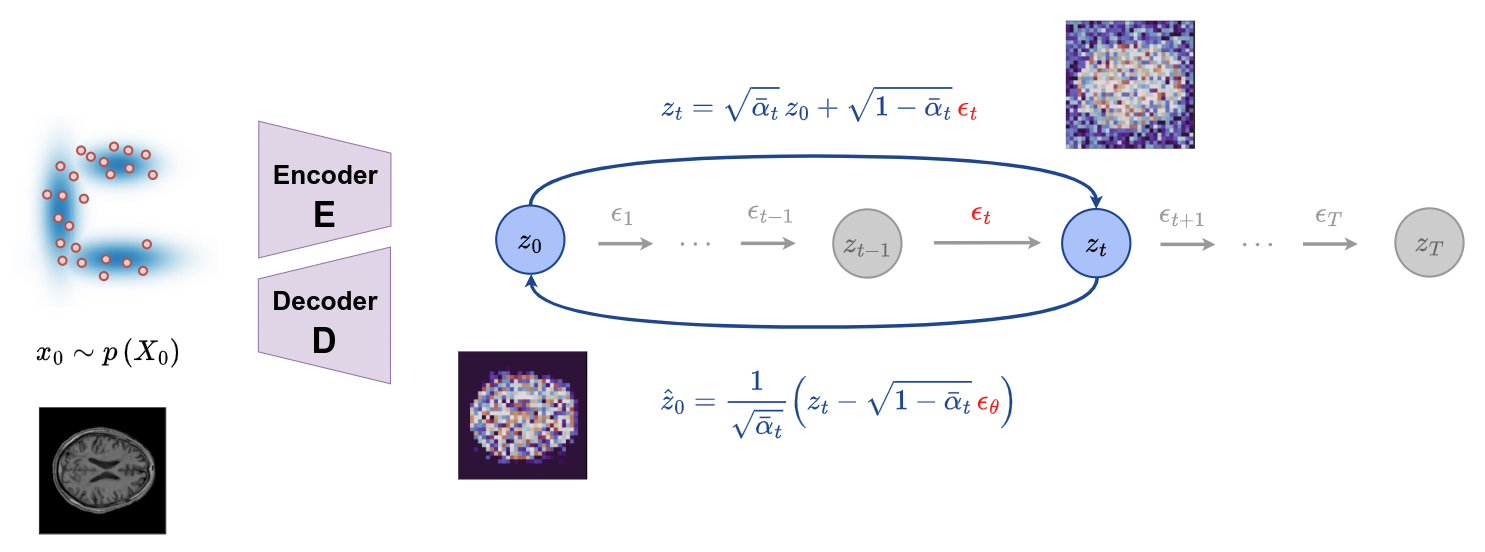
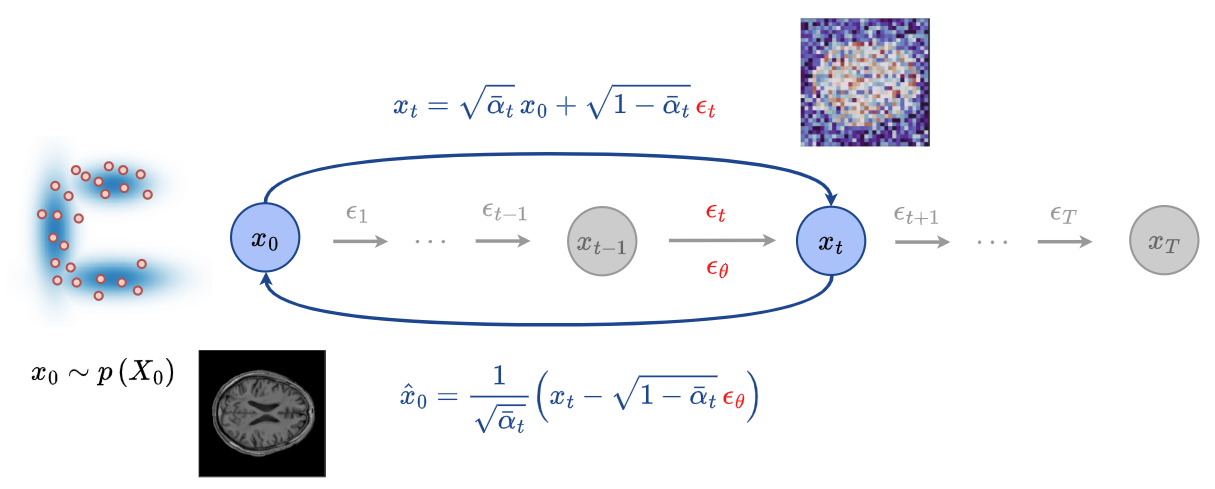
finalize post

diff --git a/collections/_posts/2026-01-16-thor.md b/collections/_posts/2026-01-16-thor.md
@@ -59,15 +59,12 @@ $$\textcolor{red}{\hat{x}_0(x_t,t) = \frac{1}{\sqrt{\bar{\alpha}_t}} \left(x_t -
 ### Modeling the normal feature space
 
 * Excusively healthy subjects are used during training: $$\{x^{(i)}\}_{i=1}^{N}$$ with $$x^{(i)} \in \mathbb{R}^{H \times W \times C}$$ 
-* A pre-trained variational auto-encoder $$V_{E,\phi}$$ is fine-tuned on the dataset and then frozen for the rest of the process
-* Each input image $$x^{(i)}$$ are mapped to its latent space representation $$z^{(i)} = V_{E,\phi}\left(x^{(i)}\right)$$, where $$z^{(i)} \in \mathbb{R}^{H' \times W' \times C'}$$
+* No pre-trained Variational Autoencoder is used; the method operates directly in the image space. The images are resized to dimensions of $$128 \times 128$$
 
-<div style="text-align:center">
-<img src="/collections/images/thor/VAE-procedure.jpg" width=300></div>
 
 ### Diffusion process
 
-* A standard diffusion process is used to learn the reconstruction of images from healthy subjects
+* A standard DDPM is used to learn the reconstruction of images from healthy subjects
 
 
 ## Inference
@@ -78,25 +75,29 @@ $$\textcolor{red}{\hat{x}_0(x_t,t) = \frac{1}{\sqrt{\bar{\alpha}_t}} \left(x_t -
 
 * At each pre-defined specific time-step $$t$$, an estimation of the pseudo-healthy image is computed as:
  
-$$\hat{x}^t_0 = V_{D,\phi}(\hat{z}^t_0) = V_{D,\phi}(\frac{1}{\sqrt{\bar{\alpha}_t}} \left(z_t - \sqrt{1-\bar{\alpha}_t}\, \epsilon_\theta(z_t,t) \right))$$
+$$\hat{x}^t_0 = \frac{1}{\sqrt{\bar{\alpha}_t}} \left(x_t - \sqrt{1-\bar{\alpha}_t}\, \epsilon_\theta(x_t,t) \right)$$
 
-  where $$V_{D,\phi}$$ is the pre-trained VAE decoder
-
-* These maps critically compare the predictive reconstructions $$\hat{x}^t_0$$ with the actual input image $$x^{\text{input}}_0$$, highlighting discrepancies that indicate anomalies and distinguishing regions that are likely healthy
+* These maps compare the predictive reconstructions $$\hat{x}^t_0$$ with the actual input image $$x^{\text{input}}_0$$, highlighting discrepancies that indicate anomalies and distinguishing regions that are likely healthy
 
 ### Anomaly maps
 
-* Anomaly maps m combine residual differences with the Learned Perceptual Image Patch Similarity (LPIPS) metric [1], enhancing the identification of subtle pathological changes
+* Anomaly maps $$m$$ combine residual differences with the Learned Perceptual Image Patch Similarity (LPIPS) metric [1], enhancing the identification of subtle pathological changes
 
 $$m(x,x_{rec}) = |x-x_{rec}| \cdot S_{LPIPS}(x,x_{rec})$$
 
-* Each mask $$m$$ is normalized to the range $$[0,1]$$ and processed using morphological operations, consisting of a closing followed by a dilation, denoted as $$cd$$)
-* These anomaly maps are then used in the "harmonization" process to produce reconstructions that not only closely
-resemble the original images but also conform to the healthy tissue profile
+* Each mask $$m$$ is normalized to the range $$[0,1]$$ and processed using morphological operations, consisting of a closing followed by a dilation, denoted as $$cd$$
+* These anomaly maps are subsequently used in the harmonization process to produce reconstructions that not only closely resemble the original images but also conform to healthy tissue profiles
 
-$$x_t = cd\left( m(\hat{x}^t_0,x^{\text{input}}_0) \right) \cdot \hat{x}^t_0 + \left( 1 - cd\left( m(\hat{x}^t_0,x^{\text{input}}_0) \right) \right) \cdot x^{\text{input}}_0$$
+$$\hat{x}_0 = cd\left( m(\hat{x}^t_0,x^{\text{input}}_0) \right) \cdot \hat{x}^t_0 + \left( 1 - cd\left( m(\hat{x}^t_0,x^{\text{input}}_0) \right) \right) \cdot x^{\text{input}}_0$$
 
-* $$x_t$$ is then used to [...] <font color="red">voir avec Celia</font>
+* $$\hat{x}_0$$ is then used to recompute $$x_t$$ following the standard diffusion process, i.e.
+
+$$x_t = \sqrt{\bar{\alpha}_t} \, \hat{x}_0 + \sqrt{1-\bar{\alpha}_t} \, \epsilon_t$$
+
+* The reverse process then continues until the next harmonization step
+
+<div style="text-align:center">
+<img src="/collections/images/thor/thor-full-pipeline.jpg" width=700></div>
 
 ### Final anomaly map
 
